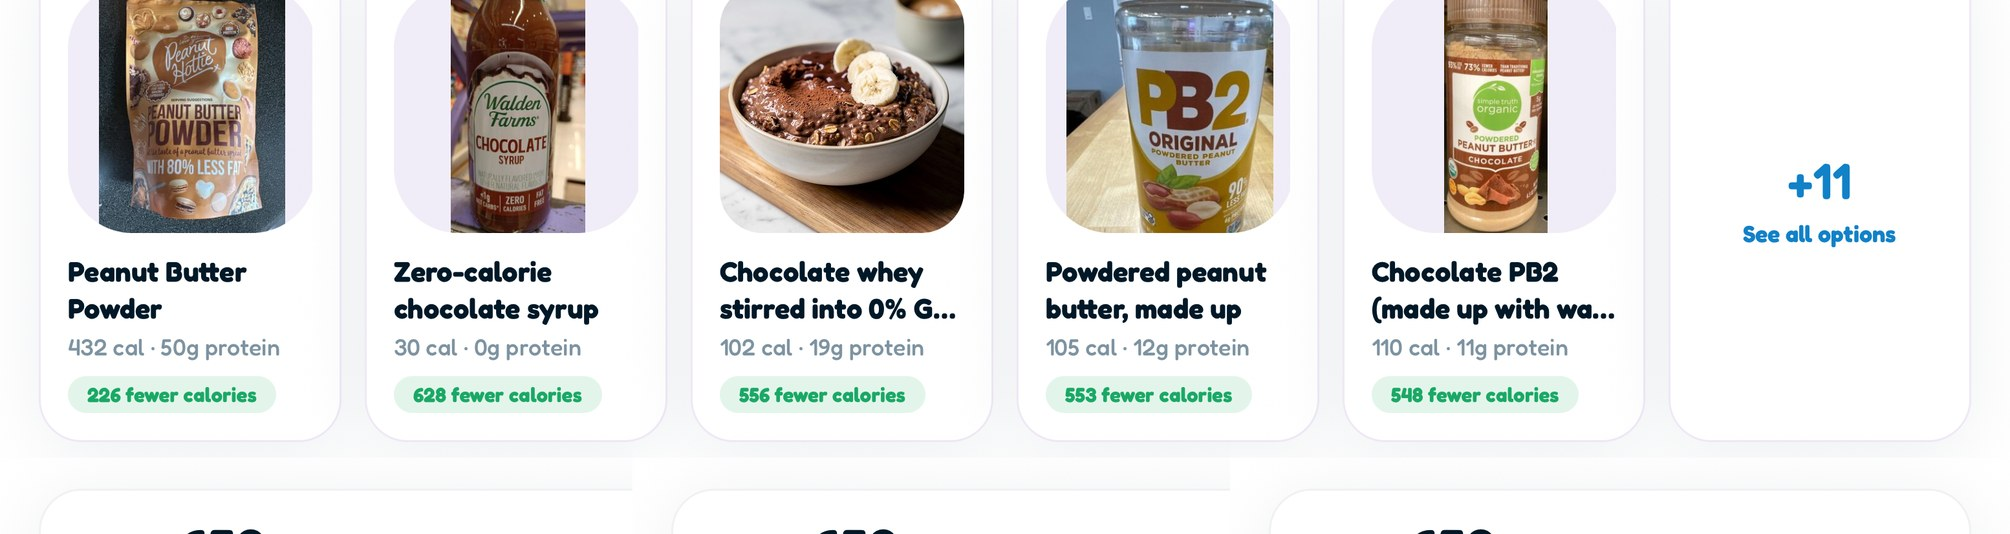
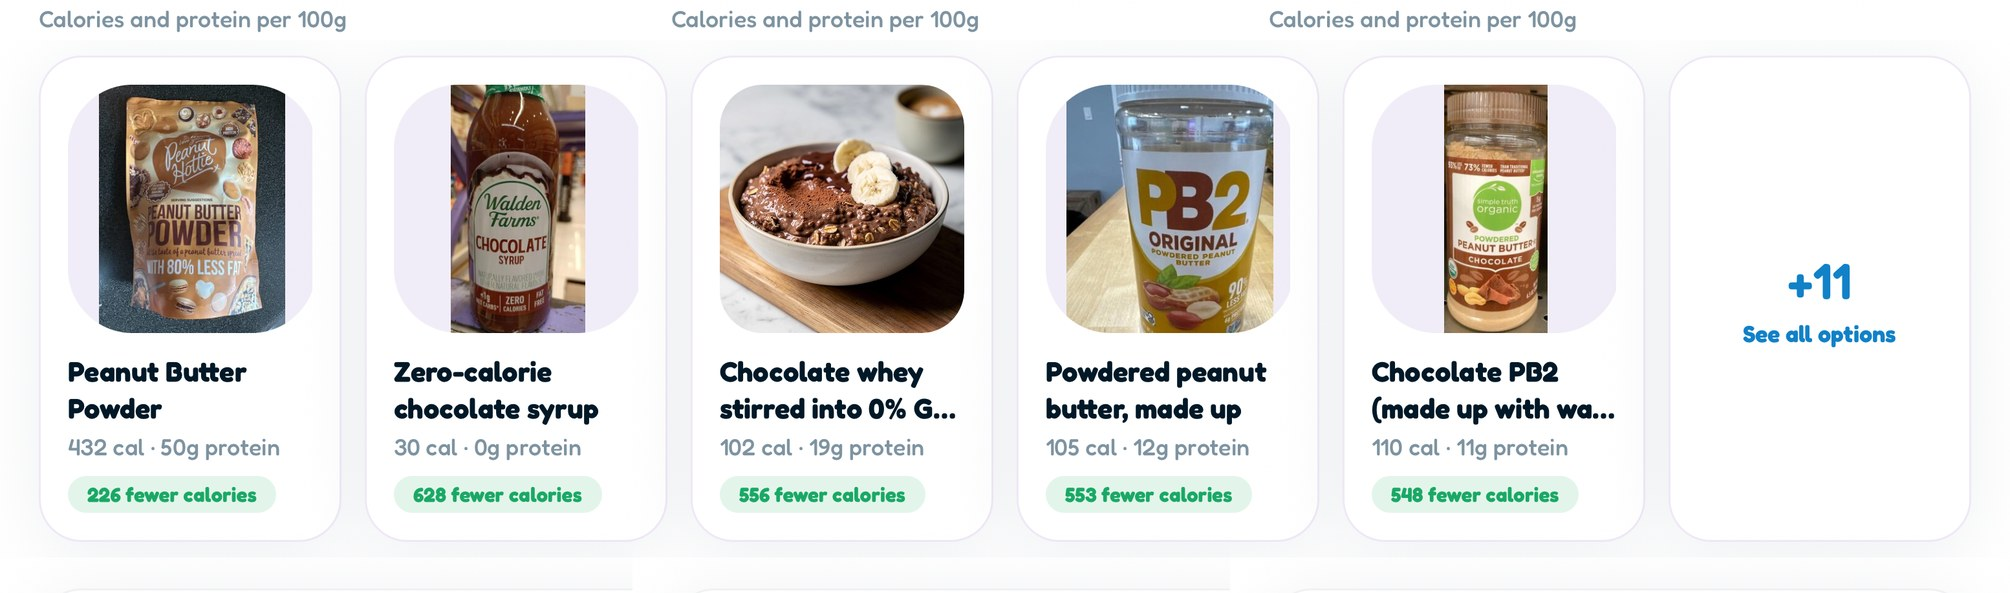
Jar swaps strip: cut from above the cards so their tops aren't clipped

diff --git a/assets/main-DTPdBBmN.js b/assets/main-DTPdBBmN.js
@@ -1,0 +1,1 @@
+import{j as e,r as g,h as H,P as D,A as I,a as Z,b as J,d as K,t as Q,H as ee,F as te,c as se}from"./Footer-ChDiOIn4.js";function $({src:s,alt:d,width:r=280,className:o="",priority:t=!1,screen:i,dim:x=!1}){const l=r,c=l*.016,k=l*.03,p=c+k,m=l-p*2,b=m*(2868/1320)+p*2,S=l*.165,j=Math.max(1,l*.005),w=l*.012,F=[[.155,.04],[.225,.065],[.31,.065]],a=[[.255,.115]],W=(n,[h,u],v)=>e.jsx("div",{className:"absolute",style:{top:b*h,height:b*u,width:w+c,[n]:-w,borderRadius:n==="left"?`${w}px 0 0 ${w}px`:`0 ${w}px ${w}px 0`,background:n==="left"?"linear-gradient(90deg, #4c4c54 0%, #1c1c21 45%, #101013 100%)":"linear-gradient(270deg, #3a3a41 0%, #1a1a1f 45%, #101013 100%)",boxShadow:"inset 0 1px 0 rgba(255,255,255,0.28), inset 0 -1px 0 rgba(0,0,0,0.6)"}},`${n}${v}`),T=[{top:0,left:l*.2,width:j,height:c},{top:0,right:l*.2,width:j,height:c},{bottom:0,left:l*.2,width:j,height:c},{bottom:0,right:l*.2,width:j,height:c},{left:0,top:b*.1,height:j,width:c},{left:0,bottom:b*.1,height:j,width:c},{right:0,top:b*.1,height:j,width:c},{right:0,bottom:b*.1,height:j,width:c}],P={w:m*.31,h:m*.092,top:m*.028},M=m*.052;return e.jsxs("div",{className:`relative shrink-0 ${o}`,style:{width:l,height:b},children:[e.jsx("div",{className:"absolute inset-0",style:{borderRadius:S,boxShadow:`0 ${l*.12}px ${l*.3}px rgba(52,18,110,0.45), 0 ${l*.03}px ${l*.07}px rgba(0,0,0,0.3)`}}),F.map((n,h)=>W("left",n,h)),a.map((n,h)=>W("right",n,h)),e.jsx("div",{className:"absolute inset-0",style:{borderRadius:S,background:"linear-gradient(155deg, #5a5a63 0%, #2a2a30 14%, #35353c 32%, #1b1b1f 55%, #2e2e34 78%, #56565f 100%)",boxShadow:"inset 0 0 0 1px rgba(255,255,255,0.28), inset 0 0 0 2px rgba(0,0,0,0.35)"}}),e.jsx("div",{className:"absolute inset-0",style:{borderRadius:S,padding:c,background:"conic-gradient(from 200deg at 50% 50%, rgba(255,255,255,0) 0deg, rgba(255,255,255,0.22) 35deg, rgba(255,255,255,0.04) 80deg, rgba(255,255,255,0) 130deg, rgba(255,255,255,0.14) 215deg, rgba(255,255,255,0) 260deg, rgba(255,255,255,0.08) 320deg, rgba(255,255,255,0) 360deg)",WebkitMask:"linear-gradient(#000 0 0) content-box, linear-gradient(#000 0 0)",WebkitMaskComposite:"xor",maskComposite:"exclude"},"aria-hidden":"true"}),T.map((n,h)=>e.jsx("div",{className:"absolute",style:{...n,background:"rgba(200,200,212,0.42)"}},h)),e.jsx("div",{className:"absolute",style:{inset:c,borderRadius:S-c,background:"#050507",boxShadow:"inset 0 0 0 1px rgba(255,255,255,0.07), inset 0 0 8px rgba(0,0,0,0.9)"}}),e.jsxs("div",{className:"absolute overflow-hidden bg-black",style:{inset:p,borderRadius:S-p},children:[i?i(m):e.jsx("img",{src:s,alt:d,width:1320,height:2868,loading:t?"eager":"lazy",decoding:"async",className:"h-full w-full object-cover",draggable:!1}),e.jsx("div",{className:"pointer-events-none absolute inset-0 z-20 bg-black",style:{opacity:x?.62:0,transition:"opacity 900ms ease"},"aria-hidden":"true"}),e.jsx("div",{className:"absolute left-1/2 -translate-x-1/2 rounded-full bg-black",style:{top:P.top,width:P.w,height:P.h,boxShadow:"inset 0 0 0 1px rgba(255,255,255,0.05)"},children:e.jsx("div",{className:"absolute top-1/2 -translate-y-1/2 rounded-full",style:{right:(P.h-M)/2,width:M,height:M,background:"radial-gradient(circle at 38% 35%, #2b2b3d 0%, #121218 45%, #05050a 70%)",boxShadow:"inset 0 0 0 1px rgba(255,255,255,0.09), 0 0 0 1px rgba(0,0,0,0.9)"}})}),e.jsx("div",{className:"pointer-events-none absolute inset-0",style:{background:"linear-gradient(118deg, rgba(255,255,255,0.16) 0%, rgba(255,255,255,0.05) 28%, rgba(255,255,255,0) 46%)"},"aria-hidden":"true"}),e.jsx("div",{className:"pointer-events-none absolute inset-0",style:{borderRadius:S-p,boxShadow:"inset 0 0 0 1px rgba(255,255,255,0.10), inset 0 1px 0 rgba(255,255,255,0.18)"},"aria-hidden":"true"})]})]})}const X=12e3,A={loading:320,result:2020},ae=1500,re=1300,ie=1900,z=402,ne=874;function le({clip:s,result:d,scene:r,alt:o,width:t,active:i}){const x=g.useRef(null),[l,c]=g.useState("camera"),[k,p]=g.useState(0),[m,E]=g.useState(0),b=g.useRef([]),S=()=>{b.current.forEach(n=>window.clearTimeout(n)),b.current=[]},[j]=g.useState(()=>typeof window<"u"&&window.matchMedia("(prefers-reduced-motion: reduce)").matches);g.useEffect(()=>{const n=x.current;if(!n||j)return;n.muted=!0,n.setAttribute("muted","");const h=()=>{!document.hidden&&i&&n.play().catch(()=>{})};return document.addEventListener("visibilitychange",h),()=>document.removeEventListener("visibilitychange",h)},[j,i]),g.useEffect(()=>{const n=x.current;if(!i||j){S(),c("camera"),p(0),E(0),n&&(n.pause(),n.currentTime=0);return}n&&(n.loop=!1,n.currentTime=0,n.play().catch(()=>{}));const h=window.setTimeout(()=>F(),2600);return b.current.push(h),b.current.push(window.setTimeout(()=>{c("camera"),p(0)},X-400)),S},[i,j,r]);const w=g.useRef(!1);g.useEffect(()=>{w.current=!1},[i]);function F(){if(w.current||!i)return;w.current=!0,c("shoot");const n=(u,v)=>b.current.push(window.setTimeout(v,u));n(A.loading,()=>{c("loading");const u=performance.now(),v=()=>{const y=Math.min(1,(performance.now()-u)/ae);E(Math.round((1-Math.pow(1-y,3))*100)),y<1&&requestAnimationFrame(v)};requestAnimationFrame(v)}),n(A.result,()=>{p(0),c("result")});const h=(r.pageScrollPt?1:0)+r.moves.length;for(let u=0;u<h;u++)n(A.result+re+u*ie,()=>p(u+1))}const a=n=>n/z*t,W=a(ne),T=l==="camera"||l==="shoot",P=l==="loading",M=l==="result";return j?e.jsx("img",{src:d,alt:o,className:"h-full w-full object-cover",draggable:!1}):e.jsxs("div",{className:"relative h-full w-full overflow-hidden bg-black",style:{fontFamily:"var(--font-display)"},children:[e.jsxs("div",{className:"absolute inset-0",style:{opacity:T?1:0,transition:"opacity 160ms ease"},children:[e.jsxs("video",{ref:x,className:"absolute inset-0 h-full w-full object-cover",muted:!0,playsInline:!0,preload:"auto",poster:`/video/${s}-poster.jpg`,onEnded:F,"aria-hidden":"true",children:[e.jsx("source",{src:`/video/${s}.webm`,type:"video/webm"}),e.jsx("source",{src:`/video/${s}.mp4`,type:"video/mp4"})]}),e.jsx(_,{sw:t}),e.jsxs("div",{className:"absolute inset-x-0 flex items-center justify-between",style:{top:a(67),paddingLeft:a(20),paddingRight:a(20)},children:[e.jsx(B,{sw:t,size:36,children:e.jsx(R,{sw:t,size:19,d:["M19 12H5","m12 19-7-7 7-7"]})}),e.jsx("span",{className:"font-semibold text-white",style:{fontSize:a(16)},children:"Scanner"}),e.jsx(B,{sw:t,size:36,children:e.jsx("span",{className:"font-bold text-white",style:{fontSize:a(18)},children:"?"})})]}),(()=>{const n=t*.84,h=n/.84,u=(a(107)+(W-a(250)))/2-h/2,v=a(4),y=a(22),N=a(32),U=f=>({position:"absolute",width:N,height:N,borderColor:"#fff",borderStyle:"solid",top:f[0]==="t"?0:void 0,bottom:f[0]==="b"?0:void 0,left:f[1]==="l"?0:void 0,right:f[1]==="r"?0:void 0,borderTopWidth:f[0]==="t"?v:0,borderBottomWidth:f[0]==="b"?v:0,borderLeftWidth:f[1]==="l"?v:0,borderRightWidth:f[1]==="r"?v:0,borderTopLeftRadius:f==="tl"?y:0,borderTopRightRadius:f==="tr"?y:0,borderBottomLeftRadius:f==="bl"?y:0,borderBottomRightRadius:f==="br"?y:0});return e.jsx("div",{className:"absolute left-1/2 -translate-x-1/2",style:{top:u,width:n,height:h},children:["tl","tr","bl","br"].map(f=>e.jsx("span",{style:U(f)},f))})})(),e.jsx(V,{sw:t,items:[".5x","1x"],active:1,minWidth:96,bottom:204}),e.jsx(V,{sw:t,items:["Log","Swap","Menu"],active:0,minWidth:160,bottom:164}),e.jsx("div",{className:"absolute inset-x-0 flex items-center",style:{bottom:a(96),height:a(58),paddingLeft:a(28),paddingRight:a(28),gap:a(8)},children:[["Scan Food",["M3 7V5a2 2 0 0 1 2-2h2","M17 3h2a2 2 0 0 1 2 2v2","M21 17v2a2 2 0 0 1-2 2h-2","M7 21H5a2 2 0 0 1-2-2v-2","M7 12h10"]],["Barcode",["M3 5v14","M8 5v14","M12 5v14","M17 5v14","M21 5v14"]],["Food label",["M3 2v7a2 2 0 0 0 2 2h0a2 2 0 0 0 2-2V2","M7 2v20","M21 15V2a5 5 0 0 0-5 5v6c0 1.1.9 2 2 2h3Z"]]].map(([n,h],u)=>e.jsxs("span",{className:"flex flex-1 flex-col items-center justify-center",style:{gap:a(3),paddingTop:a(7),paddingBottom:a(7),borderRadius:a(13),background:u===0?"#fff":"rgba(255,255,255,0.14)",border:`1px solid ${u===0?"#fff":"rgba(255,255,255,0.42)"}`,backdropFilter:u===0?void 0:"blur(10px)",color:u===0?"#001827":"#fff"},children:[e.jsx(R,{sw:t,size:15,d:h}),e.jsx("span",{className:"font-bold",style:{fontSize:a(10)},children:n})]},n))}),e.jsxs("div",{className:"absolute inset-x-0 flex items-center justify-between",style:{bottom:a(24),paddingLeft:a(20),paddingRight:a(20)},children:[e.jsx(B,{sw:t,size:44,children:e.jsx(R,{sw:t,size:18,d:["M8.5 14.5A2.5 2.5 0 0 0 11 12c0-1.38-.5-2-1-3-1.072-2.143-.224-4.054 2-6 .5 2.5 2 4.9 4 6.5 2 1.6 3 3.5 3 5.5a7 7 0 1 1-14 0c0-1.153.433-2.294 1-3a2.5 2.5 0 0 0 2.5 2.5z"]})}),e.jsx("span",{className:"grid place-items-center rounded-full",style:{width:a(64),height:a(64),border:`${a(4)}px solid #fff`},children:e.jsx("span",{className:"block rounded-full bg-white",style:{width:a(49),height:a(49),transform:l==="shoot"?"scale(0.82)":"scale(1)",transition:"transform 120ms ease"}})}),e.jsx(B,{sw:t,size:44,children:e.jsx(R,{sw:t,size:18,d:["M3 5a2 2 0 0 1 2-2h14a2 2 0 0 1 2 2v14a2 2 0 0 1-2 2H5a2 2 0 0 1-2-2z","m21 15-5-5L5 21"],circle:[9,9,2]})})]}),e.jsx("span",{className:"absolute left-1/2 -translate-x-1/2 rounded-full bg-white",style:{bottom:a(8),width:a(139),height:a(5)}})]}),e.jsx("div",{className:"pointer-events-none absolute inset-0 z-20 bg-white",style:{opacity:l==="shoot"?.85:0,transition:l==="shoot"?"none":"opacity 240ms ease"}}),e.jsxs("div",{className:"absolute inset-0 z-[5] bg-[#F7F5FB] text-[#001827]",style:{opacity:P?1:0,transition:"opacity 200ms ease",pointerEvents:"none"},children:[e.jsx(_,{sw:t,dark:!0}),e.jsxs("div",{className:"absolute left-1/2 top-1/2 -translate-x-1/2 -translate-y-1/2",style:{width:a(150),height:a(150)},children:[e.jsx(oe,{sw:t,size:150,stroke:11,pct:m}),e.jsxs("span",{className:"absolute inset-0 grid place-items-center font-bold",style:{fontSize:a(34),letterSpacing:"-0.02em"},children:[m,"%"]})]}),e.jsx("p",{className:"absolute inset-x-0 text-center font-semibold",style:{top:`calc(50% + ${a(100)}px)`,fontSize:a(17),color:"#5B6B78"},children:"Analysing…"})]}),(()=>{const n=r.pageScrollPt?1:0,h=r.pageScrollPt&&k>=1?a(r.pageScrollPt):0,u=Math.min(r.moves.length,Math.max(0,k-n)),v=u>0?a(r.moves[u-1]):0,y="cubic-bezier(0.16, 1, 0.3, 1)";return e.jsxs("div",{className:"absolute inset-0 z-10 overflow-hidden bg-white",style:{transform:M?"translateX(0)":"translateX(100%)",transition:M?"transform 320ms cubic-bezier(0.22, 1, 0.36, 1)":"transform 0ms",boxShadow:"-12px 0 30px rgba(0,0,0,0.25)"},children:[e.jsxs("div",{className:"absolute left-0 top-0 w-full will-change-transform",style:{transform:`translateY(${-h}px)`,transition:M?`transform 1000ms ${y}`:"none"},children:[e.jsx("img",{src:r.base,alt:o,className:"block w-full",draggable:!1}),e.jsx("div",{className:"absolute left-0 w-full overflow-hidden",style:{top:a(r.band.topPt),height:a(r.band.heightPt)},children:e.jsx("img",{src:r.strip,alt:"",className:"block max-w-none will-change-transform",draggable:!1,style:{height:a(r.band.heightPt),width:a(r.stripWidthPt),transform:`translateX(${-v}px)`,transition:M?`transform 1400ms ${y}`:"none"}})})]}),r.cleanTopWhenScrolled&&e.jsxs("div",{className:"absolute inset-x-0 top-0",style:{height:a(140),opacity:h>0?1:0,transition:"opacity 500ms ease",background:"linear-gradient(#F7F5FB 0%, #F7F5FB 74%, rgba(247,245,251,0) 100%)"},children:[e.jsx(_,{sw:t,dark:!0}),e.jsxs("div",{className:"absolute inset-x-0 flex items-center justify-between",style:{top:a(50),paddingLeft:a(12),paddingRight:a(12)},children:[e.jsx(O,{sw:t,children:e.jsx(R,{sw:t,size:20,d:["M19 12H5","m12 19-7-7 7-7"]})}),e.jsxs("span",{className:"flex",style:{gap:a(10)},children:[e.jsx(O,{sw:t,children:e.jsx(R,{sw:t,size:19,d:["M12 3v12","m7 8 5-5 5 5","M5 14v5a2 2 0 0 0 2 2h10a2 2 0 0 0 2-2v-5"]})}),e.jsx(O,{sw:t,children:e.jsx(R,{sw:t,size:19,d:["M5 12h.01","M12 12h.01","M19 12h.01"]})})]})]})]}),r.fixed?.map(N=>e.jsx("img",{src:N.src,alt:"",className:"absolute block max-w-none",draggable:!1,style:{left:a(N.leftPt),top:a(N.topPt),width:a(N.widthPt),height:a(N.heightPt),opacity:!N.whenScrolled||h>0?1:0,transition:"opacity 700ms ease"}},N.src))]})})()]})}function _({sw:s,dark:d}){const r=t=>t/z*s,o=d?"#001827":"#fff";return e.jsxs("div",{className:"absolute inset-x-0 flex items-center justify-between font-semibold",style:{top:r(14),paddingLeft:r(44),paddingRight:r(36),fontSize:r(17),color:o},children:[e.jsx("span",{children:"9:41"}),e.jsxs("span",{className:"flex items-center",style:{gap:r(6)},children:[e.jsxs("svg",{width:r(18),height:r(12),viewBox:"0 0 18 12",fill:o,children:[e.jsx("rect",{x:"0",y:"8",width:"3",height:"4",rx:"0.8"}),e.jsx("rect",{x:"5",y:"5.5",width:"3",height:"6.5",rx:"0.8"}),e.jsx("rect",{x:"10",y:"3",width:"3",height:"9",rx:"0.8"}),e.jsx("rect",{x:"15",y:"0",width:"3",height:"12",rx:"0.8"})]}),e.jsxs("svg",{width:r(17),height:r(12),viewBox:"0 0 16 12",fill:o,children:[e.jsx("path",{d:"M8 11.5 5.6 9a3.4 3.4 0 0 1 4.8 0zM3.5 6.8l-1.6-1.7a8.7 8.7 0 0 1 12.2 0l-1.6 1.7a6.4 6.4 0 0 0-9 0z"}),e.jsx("path",{d:"M8 4.2c1.5 0 2.9.6 3.9 1.6L10.3 7.5a3.3 3.3 0 0 0-4.6 0L4.1 5.8a5.5 5.5 0 0 1 3.9-1.6z"})]}),e.jsxs("svg",{width:r(27),height:r(13),viewBox:"0 0 27 13",fill:"none",children:[e.jsx("rect",{x:"0.5",y:"0.5",width:"23",height:"12",rx:"3.5",stroke:o,strokeOpacity:"0.5"}),e.jsx("rect",{x:"2",y:"2",width:"20",height:"9",rx:"2",fill:o}),e.jsx("path",{d:"M25 4.5v4a2 2 0 0 0 0-4z",fill:o,fillOpacity:"0.5"})]})]})]})}function O({sw:s,children:d}){const r=o=>o/z*s;return e.jsx("span",{className:"grid place-items-center rounded-full text-[#001827]",style:{width:r(40),height:r(40),background:"#EEEDF3"},children:d})}function oe({sw:s,size:d,stroke:r,pct:o}){const t=k=>k/z*s,i=t(d),x=t(r),l=(i-x)/2,c=2*Math.PI*l;return e.jsxs("svg",{width:i,height:i,style:{transform:"rotate(-90deg)"},"aria-hidden":"true",children:[e.jsx("circle",{cx:i/2,cy:i/2,r:l,stroke:"#E6DFF5",strokeWidth:x,fill:"none"}),e.jsx("circle",{cx:i/2,cy:i/2,r:l,stroke:"#7A3FB8",strokeWidth:x,fill:"none",strokeLinecap:"round",strokeDasharray:c,strokeDashoffset:c*(1-o/100)})]})}function B({sw:s,size:d,children:r}){const o=t=>t/z*s;return e.jsx("span",{className:"grid place-items-center rounded-full text-white",style:{width:o(d),height:o(d),background:"rgba(255,255,255,0.14)",border:"1px solid rgba(255,255,255,0.42)",backdropFilter:"blur(10px)"},children:r})}function R({sw:s,size:d,d:r,circle:o}){const t=d/z*s;return e.jsxs("svg",{width:t,height:t,viewBox:"0 0 24 24",fill:"none",stroke:"currentColor",strokeWidth:"2",strokeLinecap:"round",strokeLinejoin:"round","aria-hidden":"true",children:[r.map(i=>e.jsx("path",{d:i},i)),o&&e.jsx("circle",{cx:o[0],cy:o[1],r:o[2]})]})}function V({sw:s,items:d,active:r,minWidth:o,bottom:t}){const i=x=>x/z*s;return e.jsx("div",{className:"absolute left-1/2 flex -translate-x-1/2 rounded-full",style:{bottom:i(t),minWidth:i(o),padding:i(3),background:"rgba(0,0,0,0.34)"},children:d.map((x,l)=>e.jsx("span",{className:"flex flex-1 items-center justify-center rounded-full font-bold",style:{paddingTop:i(5),paddingBottom:i(5),paddingLeft:i(10),paddingRight:i(10),fontSize:i(11),color:l===r?"#fff":"rgba(255,255,255,0.72)",background:l===r?"rgba(255,255,255,0.22)":"transparent",border:`1px solid ${l===r?"rgba(255,255,255,0.5)":"transparent"}`,backdropFilter:l===r?"blur(8px)":void 0},children:x},x))})}const de={base:"/app/res-meal.jpg",band:{topPt:520,heightPt:256.7},strip:"/app/res-meal-strip.jpg",stripWidthPt:1036,moves:[326,634]},ce={base:"/app/res-groc-tall.jpg",pageScrollPt:300,cleanTopWhenScrolled:!0,band:{topPt:720,heightPt:305.7},strip:"/app/res-groc-strip.jpg",stripWidthPt:1036,moves:[326,634],fixed:[{src:"/app/res-groc-bar.jpg",leftPt:0,topPt:766.7,widthPt:402,heightPt:107.3,whenScrolled:!0}]},C=[{key:"grocery",clip:"grocery",result:"/app/res-groc-tall.jpg",scene:ce,alt:"Easy scanning a jar of peanut butter and suggesting lighter swaps"},{key:"meal",clip:"meal",result:"/app/res-meal.jpg",scene:de,alt:"Easy scanning a burger with fries and suggesting lighter swaps"},{key:"menu",result:"/app/rescue.jpg",alt:"Restaurant rescue in Easy picking the best order from a menu"}],L=C.map((s,d)=>s.clip?d:-1).filter(s=>s>=0);function q(s,d){if(!s.clip||!s.scene)return;const{clip:r,scene:o}=s;return t=>e.jsx(le,{clip:r,result:s.result,scene:o,alt:s.alt,width:t,active:d})}function he(){const[s,d]=g.useState(1);g.useEffect(()=>{const t=window.setInterval(()=>d(i=>L[(L.indexOf(i)+1)%L.length]),X);return()=>window.clearInterval(t)},[]);const r=[s,...L.filter(t=>t!==s),...C.map((t,i)=>i).filter(t=>!L.includes(t))],o=t=>r.indexOf(t);return e.jsxs("section",{id:"top",className:"relative overflow-hidden pt-[112px] md:pt-[128px]",children:[e.jsxs("div",{className:"stage-in relative h-[440px] w-full overflow-hidden md:h-[600px]",children:[e.jsx("div",{className:"absolute inset-x-0 top-0 flex justify-center",children:C.map((t,i)=>{const x=o(i);return e.jsxs("div",{className:"stage-slot absolute top-0","data-slot":x,style:{zIndex:30-x*10},children:[e.jsx("div",{className:"hidden md:block",children:e.jsx($,{src:t.result,alt:t.alt,width:300,priority:i===1,screen:q(t,s===i),dim:x!==0})}),e.jsx("div",{className:"md:hidden",children:e.jsx($,{src:t.result,alt:t.alt,width:224,priority:i===1,screen:q(t,s===i),dim:x!==0})})]},t.key)})}),e.jsx("div",{className:"pointer-events-none absolute inset-x-0 bottom-0 h-24 bg-[linear-gradient(rgba(169,139,239,0),#A98BEF)]","aria-hidden":"true"})]}),e.jsx("div",{className:"mx-auto h-px w-[min(80%,720px)] bg-white/30","aria-hidden":"true"}),e.jsxs("div",{className:"mx-auto max-w-[1200px] px-6 pt-8 text-center md:pt-10",children:[e.jsxs("h1",{className:"rise rise-2 hero-grad font-display mx-auto max-w-[14ch] text-[36px] font-semibold leading-[1.04] tracking-[-0.02em] sm:text-[56px] md:text-[76px]",children:["The ",e.jsx("span",{className:"hero-underline",children:"last"})," diet app",e.jsx("br",{}),"you'll ever need."]}),e.jsx("p",{className:"rise rise-3 mx-auto mt-4 max-w-[34ch] text-[14.5px] leading-[1.5] text-white/85 md:mt-6 md:max-w-[560px] md:text-[19px]",children:H.sub}),e.jsxs("div",{className:"rise rise-4 mx-auto mt-6 grid max-w-[340px] grid-cols-2 gap-2.5 md:hidden",children:[e.jsx(D,{full:!0,tag:!1}),e.jsx(I,{light:!0,full:!0})]}),e.jsxs("div",{className:"rise rise-4 mt-8 hidden items-center justify-center gap-3 md:flex",children:[e.jsx(D,{size:"lg"}),e.jsx(I,{light:!0,size:"lg"})]}),e.jsx("p",{className:"rise rise-4 mt-3 pb-16 text-[12px] font-medium text-white/60 md:mt-4 md:pb-24 md:text-[13px]",children:H.proof})]})]})}function Y({children:s,ariaLabel:d,dark:r=!1}){const o=g.useRef(null),[t,i]=g.useState(!0),[x,l]=g.useState(!1);g.useEffect(()=>{const p=o.current;if(!p)return;const m=()=>{i(p.scrollLeft<=4),l(p.scrollLeft+p.clientWidth>=p.scrollWidth-4)};return m(),p.addEventListener("scroll",m,{passive:!0}),window.addEventListener("resize",m),()=>{p.removeEventListener("scroll",m),window.removeEventListener("resize",m)}},[]);const c=p=>{const m=o.current;if(!m)return;const E=m.querySelector("[data-card]"),b=E?E.offsetWidth+20:m.clientWidth*.8;m.scrollBy({left:p*b,behavior:"smooth"})},k=`grid h-11 w-11 place-items-center rounded-full border transition-all duration-200 disabled:opacity-30 disabled:cursor-default ${r?"border-white/25 bg-white/10 text-white hover:bg-white/20":"border-ink/10 bg-white text-ink shadow-[0_6px_18px_rgba(0,24,39,0.10)] hover:-translate-y-0.5"}`;return e.jsxs("div",{className:"relative",children:[e.jsxs("div",{ref:o,role:"region","aria-label":d,className:"no-scrollbar flex snap-x snap-mandatory gap-5 overflow-x-auto scroll-smooth px-6 pb-4 pt-2 md:px-[max(24px,calc((100vw-1200px)/2))]",style:{scrollPaddingLeft:"max(24px, calc((100vw - 1200px) / 2))"},children:[s,e.jsx("div",{className:"w-2 shrink-0","aria-hidden":"true"})]}),e.jsxs("div",{className:"mt-2 flex justify-end gap-3 px-6 md:px-[max(24px,calc((100vw-1200px)/2))]",children:[e.jsx("button",{type:"button",className:k,onClick:()=>c(-1),disabled:t,"aria-label":"Previous",children:e.jsx(Z,{})}),e.jsx("button",{type:"button",className:k,onClick:()=>c(1),disabled:x,"aria-label":"Next",children:e.jsx(J,{})})]})]})}function xe(){return e.jsxs("section",{id:"features",className:"relative pt-12 md:pt-24",children:[e.jsxs("div",{className:"mx-auto max-w-[1200px] px-6",children:[e.jsx("p",{className:"text-[11px] font-semibold uppercase tracking-[0.2em] text-violet-700 md:text-[12px]",children:"What it does"}),e.jsx("h2",{className:"font-display mt-2 max-w-[16ch] text-[28px] font-semibold leading-[1.08] tracking-[-0.02em] text-ink md:mt-3 md:text-[52px]",children:"Everything you need. Nothing you don't."})]}),e.jsx("div",{className:"mt-6 md:mt-10",children:e.jsx(Y,{ariaLabel:"Features",children:K.map(s=>e.jsxs("article",{id:s.key,"data-card":!0,className:"group relative flex w-[280px] shrink-0 snap-start flex-col overflow-hidden rounded-[28px] border border-ink/[0.06] shadow-[0_18px_50px_rgba(0,24,39,0.08)] transition-transform duration-300 hover:-translate-y-1 md:w-[380px] md:rounded-[32px]",style:{background:s.tint},children:[e.jsxs("div",{className:"flex-1 px-6 pt-6 md:px-7 md:pt-7",children:[e.jsx("h3",{className:"font-display text-[20px] font-semibold leading-tight tracking-[-0.01em] text-ink md:text-[27px]",children:s.title}),e.jsx("p",{className:"mt-1.5 text-[13.5px] leading-[1.5] text-ink-soft md:mt-2 md:text-[14.5px]",children:s.blurb})]}),e.jsx("div",{className:"relative mt-5 h-[350px] shrink-0 overflow-hidden md:mt-6 md:h-[420px]",children:e.jsxs("div",{className:"absolute left-1/2 top-4 -translate-x-1/2 transition-transform duration-500 group-hover:-translate-y-2",children:[e.jsx("div",{className:"md:hidden",children:e.jsx($,{src:s.image,alt:s.title,width:210})}),e.jsx("div",{className:"hidden md:block",children:e.jsx($,{src:s.image,alt:s.title,width:240})})]})})]},s.key))})})]})}function G({src:s,label:d}){return s?e.jsx("img",{src:s,alt:d,className:"h-full w-full object-cover",loading:"lazy"}):e.jsx("div",{className:"grid h-full w-full place-items-center rounded-2xl border-2 border-dashed border-violet-300/70 bg-violet-50 text-center",children:e.jsxs("div",{children:[e.jsx("div",{className:"mx-auto mb-2 h-10 w-10 rounded-full bg-violet-100"}),e.jsx("span",{className:"text-[12px] font-semibold uppercase tracking-[0.18em] text-violet-700/70",children:d}),e.jsx("span",{className:"block text-[12px] text-mist",children:"Drop a photo here"})]})})}function pe({t:s}){return e.jsxs("article",{"data-card":!0,className:"w-[290px] shrink-0 snap-start overflow-hidden rounded-[28px] bg-white p-3 shadow-[0_18px_50px_rgba(27,7,64,0.16)] transition-transform duration-300 hover:-translate-y-1 md:w-[400px] md:rounded-[32px] md:p-4",children:[e.jsxs("div",{className:"grid grid-cols-2 gap-2",children:[e.jsx("div",{className:"aspect-[3/4] overflow-hidden rounded-2xl",children:e.jsx(G,{src:s.before,label:"Before"})}),e.jsx("div",{className:"aspect-[3/4] overflow-hidden rounded-2xl",children:e.jsx(G,{src:s.after,label:"After"})})]}),e.jsxs("div",{className:"px-2 pb-2 pt-4 md:pt-5",children:[e.jsxs("div",{className:"flex items-baseline justify-between gap-3",children:[e.jsx("h3",{className:"font-display text-[19px] font-semibold text-ink md:text-[22px]",children:s.name}),e.jsx("span",{className:"rounded-full bg-violet-100 px-2.5 py-0.5 text-[12px] font-semibold text-violet-700 md:px-3 md:py-1 md:text-[13px]",children:s.result})]}),e.jsxs("p",{className:"mt-1.5 text-[13.5px] leading-[1.5] text-ink-soft md:mt-2 md:text-[14.5px]",children:["“",s.quote,"”"]})]})]})}function me(){return e.jsxs("section",{id:"results",className:"relative pt-16 pb-6 md:pt-36 md:pb-10",children:[e.jsxs("div",{className:"mx-auto max-w-[1200px] px-6",children:[e.jsx("p",{className:"text-[11px] font-semibold uppercase tracking-[0.2em] text-violet-700 md:text-[12px]",children:"Results"}),e.jsx("h2",{className:"font-display mt-2 max-w-[16ch] text-[28px] font-semibold leading-[1.08] tracking-[-0.02em] text-ink md:mt-3 md:text-[52px]",children:"Real people. Real food. Real weeks."})]}),e.jsx("div",{className:"mt-6 md:mt-10",children:e.jsx(Y,{ariaLabel:"Transformations",children:Q.map((s,d)=>e.jsx(pe,{t:s},d))})})]})}function ue(){return e.jsxs(e.Fragment,{children:[e.jsx(ee,{}),e.jsxs("main",{children:[e.jsx(he,{}),e.jsx(xe,{}),e.jsx(me,{})]}),e.jsx(te,{})]})}se.createRoot(document.getElementById("root")).render(e.jsx(g.StrictMode,{children:e.jsx(ue,{})}));

diff --git a/index.html b/index.html
@@ -23,7 +23,7 @@
     <meta name="twitter:card" content="summary_large_image" />
     <meta name="twitter:image" content="/easy-icon.png" />
     <meta name="theme-color" content="#A98BEF" />
-    <script type="module" crossorigin src="/assets/main-DexX7yyV.js"></script>
+    <script type="module" crossorigin src="/assets/main-DTPdBBmN.js"></script>
     <link rel="modulepreload" crossorigin href="/assets/Footer-ChDiOIn4.js">
     <link rel="stylesheet" crossorigin href="/assets/Footer-8YJmppHD.css">
   </head>
